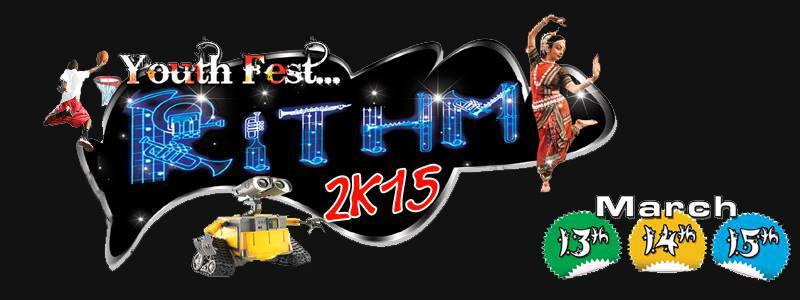
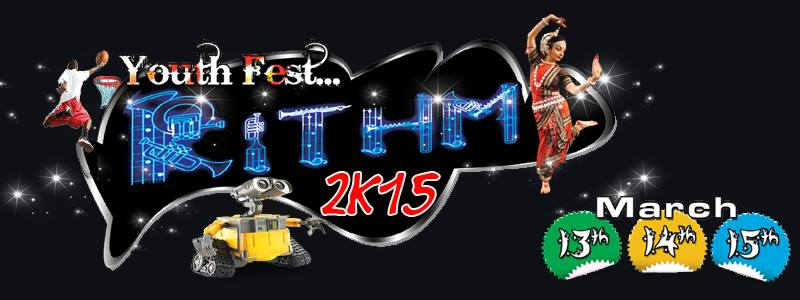
Deleted BackGround Images for smooth flow

diff --git a/css/main.css b/css/main.css
@@ -946,7 +946,7 @@ header .logo a {
 	text-transform: uppercase;
 	letter-spacing: 1.5px;
 	text-shadow: none;
-	color: white;
+	color: #f26522;
 	width: 126px;
 	height: 12px;
 	background-repeat: no-repeat;
@@ -1280,7 +1280,7 @@ hr {
 /* page title
 ---------------------------------------------------------------------- */
 #page-title {
-	background: #12151b url( ../images/brown.jpg) no-repeat center center fixed;
+	background-color: white;
 	-webkit-background-size: cover !important;
 	-moz-background-size: cover !important;
 	background-size: cover !important;
@@ -1400,7 +1400,7 @@ hr {
 /* k. Hero Section
 /* =================================================================== */
 #hero {
-	background: #12151b url(../images/brown.jpg) no-repeat center center fixed;
+	background-color: white;
 	-webkit-background-size: cover !important;
 	-moz-background-size: cover !important;
 	background-size: cover !important;
@@ -1487,14 +1487,14 @@ hr {
 }
 #hero-slider .flex-caption h1 {
 	font: 54px/1.3 "raleway-semibold", sans-serif;
-	color: white;
+	color: #f26522;
 	letter-spacing: -1px;
 	margin-bottom: 36px;
 	text-shadow: 0 0px 5px rgba(0, 0, 0, 0.5);
 }
 #hero-slider .flex-caption h1 span, 
 #hero-slider .flex-caption h1 a {
-	color: white;
+	color: #f26522;
 	display: inline-block;
 	border-bottom: 1px solid #a43b0a;
 }
@@ -1509,7 +1509,7 @@ hr {
 	text-transform: uppercase;
 	letter-spacing: 1.5px;
 	border-color: #d44d0d;
-	color: white;
+	color: black;
 	white-space: nowrap;
 	text-shadow: 0 0px 5px black;
 	-webkit-box-shadow: 0 0px 5px 0px rgba(0, 0, 0, 0.5);
@@ -1517,7 +1517,6 @@ hr {
 	box-shadow: 0 0px 5px 0px rgba(0, 0, 0, 0.5);
 }
 #hero-slider .flex-caption .button.stroke:hover {
-	color: white;
 	text-shadow: none;
 	background: #d44d0d !important;
 }
@@ -1542,7 +1541,7 @@ hr {
 	display: block;
 	cursor: pointer;
 	border-radius: 100%;
-	border: 3px solid white;
+	border: 3px solid black;
 	background: transparent;
 	box-shadow: none !important;
 	font: 0/0 a;
@@ -1837,7 +1836,7 @@ hr {
 /*  p. Contact Section
 /* =================================================================== */
 #contact {
-	background: #12151b;
+	background: white;
 	padding-top: 120px;
 	padding-bottom: 102px;
 	overflow: hidden;
@@ -1846,7 +1845,7 @@ hr {
 	max-width: 784px;
 }
 #contact h1 {
-	color: white;
+	color: black;
 }
 
 /* contact form */

diff --git a/index.html b/index.html
@@ -100,7 +100,7 @@
     <div class="minutes"></div>
     <div class="seconds"></div>
   </div>
-  <strong><p  align="middle"><font size="12px">Awesomeness on the way.</font></p></strong>
+  <strong><p  align="middle"><font color="#F26522" size="5px">Awesomeness on the way.</font></p></strong>
 </section> <!-- #hero -->
 
 
@@ -261,8 +261,8 @@
    		<div class="twelve columns">
 
         <h1>Registration<span>.</span></h1>
-
         <hr />
+         <img align="middle" src="images/reg.jpg" alt="Registration Starts Soon">
       </div>
     </div>
 
@@ -297,6 +297,7 @@
         <h1>Gallery<span>.</span></h1>
 
         <hr />
+
         <div class="css-slideshow">
           <figure>
             <img src="http://themarklee.com/wp-content/uploads/2013/10/class-header-css3.jpg" alt="class-header-css3" width="495" height="370" class="alignnone size-full wp-image-172" /><figcaption><strong>CSS3:</strong> CSS3 delivers a wide range of stylization and effects, enhancing the web app without sacrificing your semantic structure or performance. Additionally Web Open Font Format (WOFF) provides typographic flexibility and control far beyond anything the web has offered before.</figcaption> 
@@ -326,11 +327,6 @@
       </div>
 
     </div>
-
-    
-
-
-
 
   </section> <!-- /about -->
 
